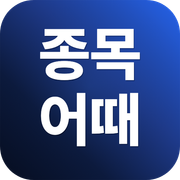
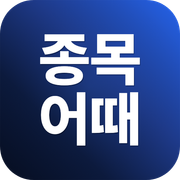
fix: 로고 텍스트 세로 중앙정렬 보정 (measureText 기반)
Generated with [Claude Code](https://claude.ai/code)
via [Happy](https://happy.engineering)

diff --git a/scripts/draw-logo.html b/scripts/draw-logo.html
@@ -47,23 +47,33 @@ async function draw() {
   const fontSize = 168;
   ctx.font = `800 ${fontSize}px Pretendard`;
   ctx.textAlign = 'center';
-  ctx.textBaseline = 'middle';
+  ctx.textBaseline = 'alphabetic';
 
   const line1 = '종목';
   const line2 = '어때';
   const lineGap = 20;
-  const totalH = fontSize * 2 + lineGap;
-  const startY = (W - totalH) / 2 + fontSize / 2;
+
+  // Measure actual glyph bounds for precise vertical centering
+  const m1 = ctx.measureText(line1);
+  const m2 = ctx.measureText(line2);
+  const asc1 = m1.actualBoundingBoxAscent;
+  const desc1 = m1.actualBoundingBoxDescent;
+  const asc2 = m2.actualBoundingBoxAscent;
+  const desc2 = m2.actualBoundingBoxDescent;
+  const blockH = asc1 + desc1 + lineGap + asc2 + desc2;
+  const topOffset = (W - blockH) / 2;
+  const y1 = topOffset + asc1;
+  const y2 = topOffset + asc1 + desc1 + lineGap + asc2;
 
   // Text shadow
   ctx.fillStyle = 'rgba(0,0,0,0.25)';
-  ctx.fillText(line1, W/2 + 2, startY + 3);
-  ctx.fillText(line2, W/2 + 2, startY + fontSize + lineGap + 3);
+  ctx.fillText(line1, W/2 + 2, y1 + 3);
+  ctx.fillText(line2, W/2 + 2, y2 + 3);
 
   // Main text
   ctx.fillStyle = '#FFFFFF';
-  ctx.fillText(line1, W/2, startY);
-  ctx.fillText(line2, W/2, startY + fontSize + lineGap);
+  ctx.fillText(line1, W/2, y1);
+  ctx.fillText(line2, W/2, y2);
 
   // ===== OUTER BORDER =====
   rr(0,0,W,W,96);
